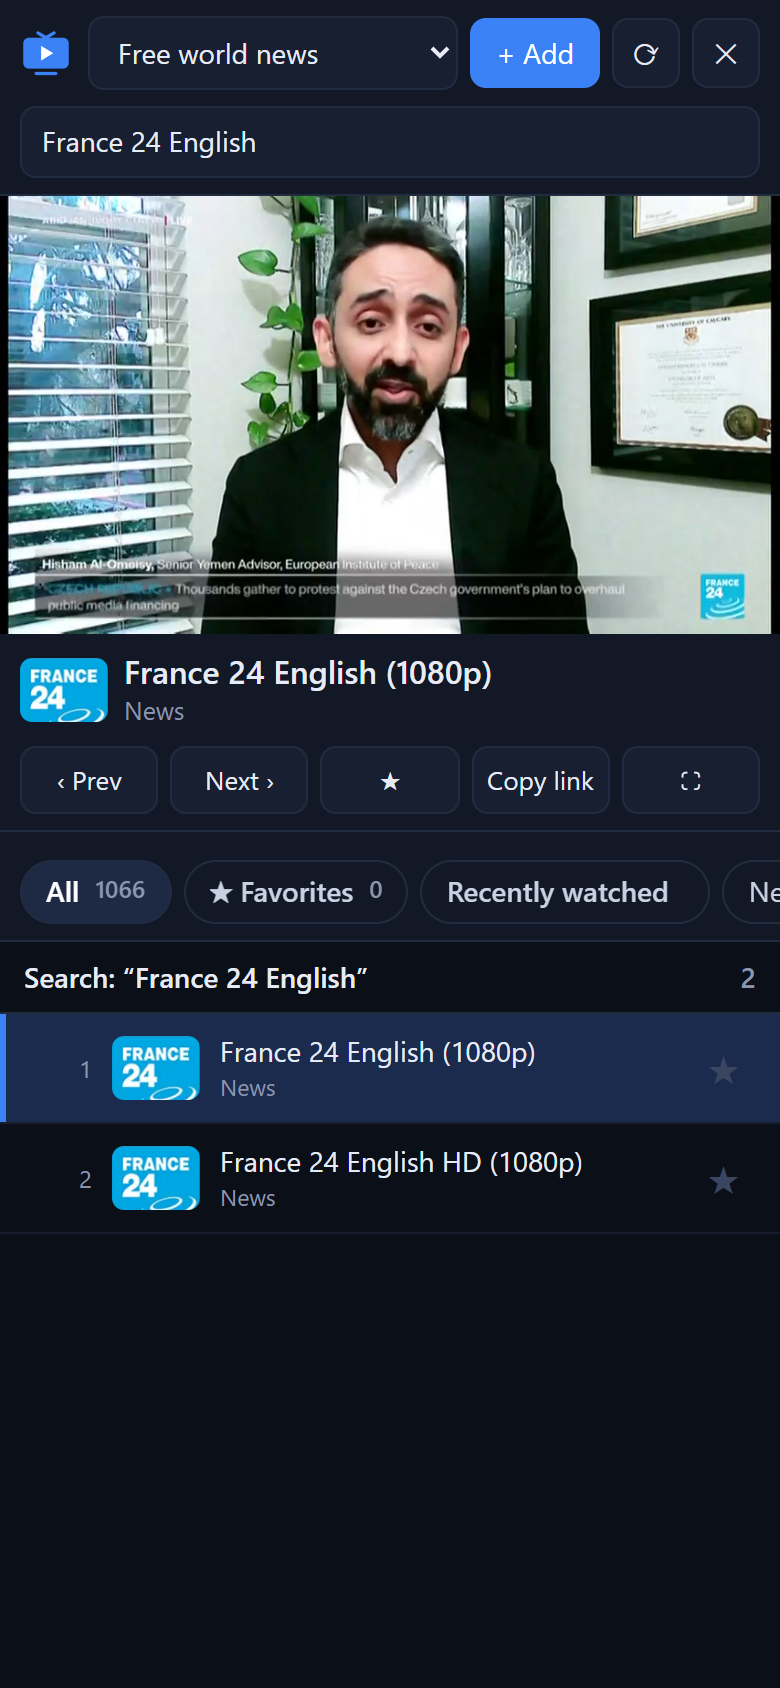
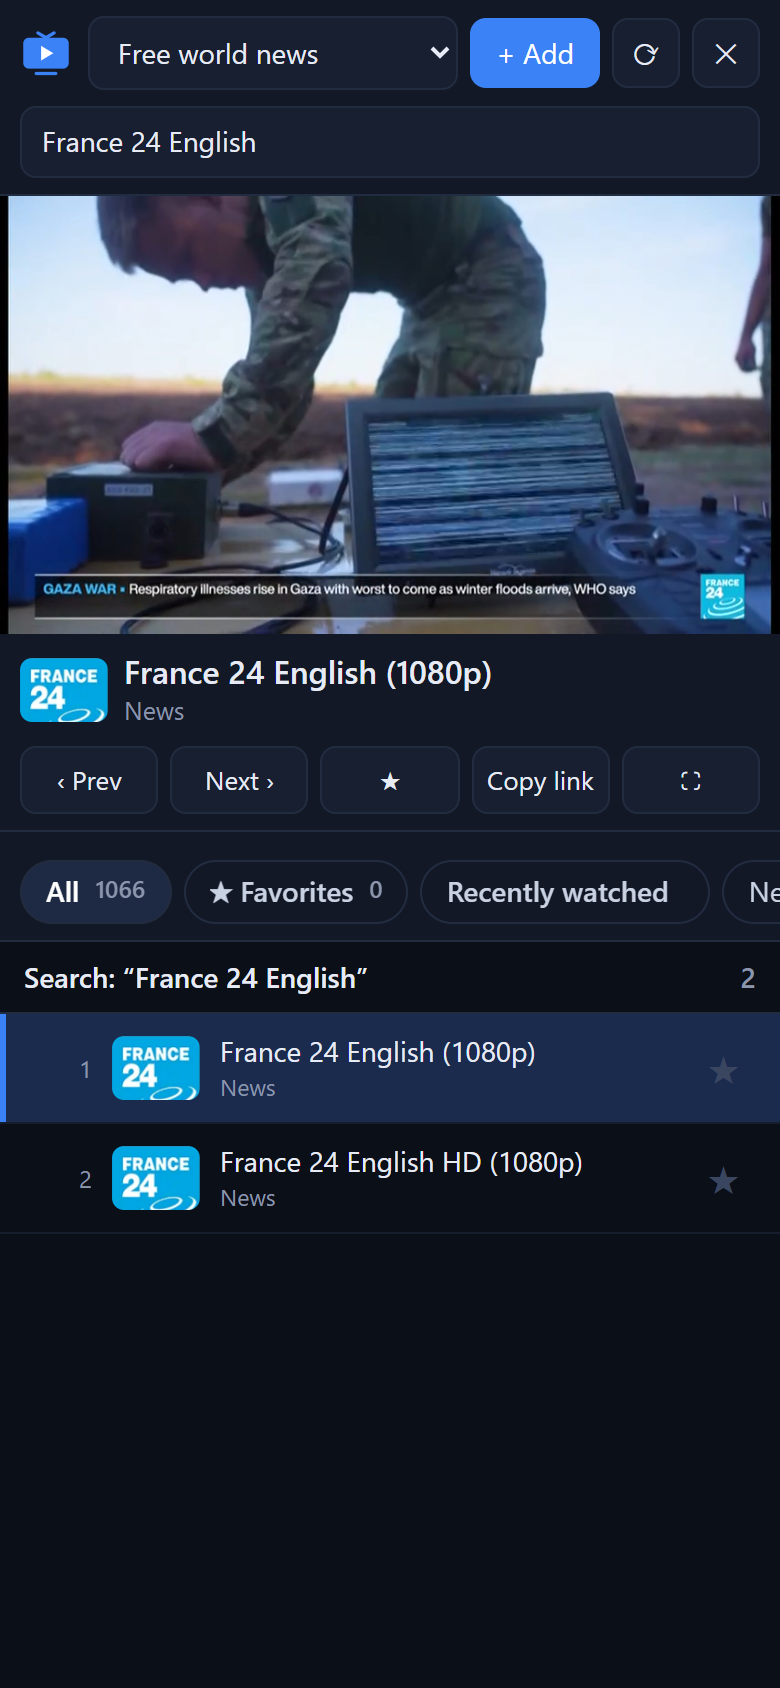
Rename app to Faza IPTV

Changed region(s): [[0.0, 0.0924, 1.0, 0.4005]]

diff --git a/public/index.html b/public/index.html
@@ -7,8 +7,8 @@
   <meta name="mobile-web-app-capable" content="yes">
   <meta name="apple-mobile-web-app-capable" content="yes">
   <meta name="apple-mobile-web-app-status-bar-style" content="black-translucent">
-  <meta name="apple-mobile-web-app-title" content="IPTV Player">
-  <title>IPTV Player</title>
+  <meta name="apple-mobile-web-app-title" content="Faza IPTV">
+  <title>Faza IPTV</title>
   <link rel="icon" href="icon.svg">
   <link rel="apple-touch-icon" href="icon-192.png">
   <link rel="manifest" href="manifest.webmanifest">
@@ -18,7 +18,7 @@
 </head>
 <body>
   <header class="top">
-    <div class="brand"><img src="icon.svg" alt=""> <span>IPTV Player</span></div>
+    <div class="brand"><img src="icon.svg" alt=""> <span>Faza IPTV</span></div>
     <div class="source">
       <select id="sourceSel" title="Your playlists"></select>
       <button id="addBtn" class="primary">+ Add</button>

diff --git a/public/app.js b/public/app.js
@@ -1,5 +1,5 @@
 'use strict';
-/* IPTV Player - front end. Talks to the local server (server.js) for playlists and streams. */
+/* Faza IPTV - front end. Talks to the local server (server.js) for playlists and streams. */
 
 const $ = (s, r = document) => r.querySelector(s);
 const esc = s => String(s ?? '').replace(/[&<>"']/g, c => ({ '&': '&amp;', '<': '&lt;', '>': '&gt;', '"': '&quot;', "'": '&#39;' }[c]));
@@ -459,7 +459,7 @@ function setOverlayLoading(msg) {
 }
 function showWelcome() {
   overlay.dataset.mode = 'welcome';
-  setOverlay(`<div class="box"><h3>Welcome to IPTV Player</h3>
+  setOverlay(`<div class="box"><h3>Welcome to Faza IPTV</h3>
     <p>Add your IPTV subscription (Xtream Codes login or an M3U link/file) to start watching.</p>
     <button class="primary" id="welcomeAdd">+ Add playlist</button></div>`);
   $('#welcomeAdd').onclick = openAdd;

diff --git a/server.js b/server.js
@@ -1,4 +1,4 @@
-// IPTV Player - local server (no npm dependencies, Node 18+)
+// Faza IPTV - local server (no npm dependencies, Node 18+)
 // Serves the web UI and proxies playlists/streams so the browser isn't blocked by CORS.
 const http = require('http');
 const fs = require('fs');
@@ -174,7 +174,7 @@ const server = http.createServer((req, res) => {
 const LAN = process.argv.includes('--lan');
 server.listen(PORT, LAN ? '0.0.0.0' : '127.0.0.1', () => {
   const link = `http://localhost:${PORT}`;
-  console.log(`\n  IPTV Player running at ${link}`);
+  console.log(`\n  Faza IPTV running at ${link}`);
   if (LAN) {
     const ips = Object.values(require('os').networkInterfaces()).flat()
       .filter(i => i && i.family === 'IPv4' && !i.internal).map(i => i.address);

diff --git a/electron/main.js b/electron/main.js
@@ -14,7 +14,7 @@ function createWindow() {
     minHeight: 500,
     backgroundColor: '#0b0f17',
     autoHideMenuBar: true,
-    title: 'IPTV Player',
+    title: 'Faza IPTV',
     icon: path.join(__dirname, '..', 'build', 'icon.png'),
     webPreferences: {
       webSecurity: false, // allow cross-origin playlists/streams (this window only loads our own files)

diff --git a/README.md b/README.md
@@ -1,9 +1,9 @@
-# IPTV Player
+# Faza IPTV
 
 A free, open-source IPTV player for **Windows, macOS, Linux, Android** and **any phone browser**.
 Bring your own playlist: an **Xtream Codes** login (server + username + password) or an **M3U / M3U8** link or file.
 
-![IPTV Player](docs/screenshot.png)
+![Faza IPTV](docs/screenshot.png)
 
 ## Features
 
@@ -24,11 +24,11 @@ Go to **[Releases](../../releases/latest)** and pick your file:
 
 | Device | File |
 |---|---|
-| Windows (installer) | `IPTV-Player-Setup-x.y.z.exe` |
-| Windows (no install) | `IPTV-Player-Portable-x.y.z.exe` |
-| macOS | `IPTV-Player-x.y.z-mac.dmg` (first launch: right-click › Open) |
-| Linux | `IPTV-Player-x.y.z-linux.AppImage` |
-| Android | `IPTV-Player-x.y.z-android.apk` (allow "install unknown apps") |
+| Windows (installer) | `Faza-IPTV-Setup-x.y.z.exe` |
+| Windows (no install) | `Faza-IPTV-Portable-x.y.z.exe` |
+| macOS | `Faza-IPTV-x.y.z-mac.dmg` (first launch: right-click › Open) |
+| Linux | `Faza-IPTV-x.y.z-linux.AppImage` |
+| Android | `Faza-IPTV-x.y.z-android.apk` (allow "install unknown apps") |
 | iPhone / iPad | use *Phone mode* below |
 
 Windows may show "Windows protected your PC" because the app isn't code-signed. Click **More info › Run anyway**.
